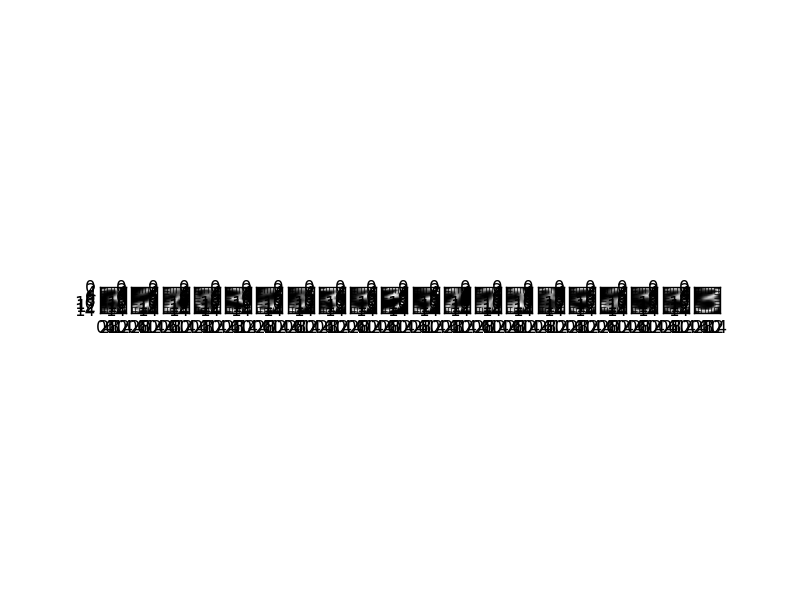
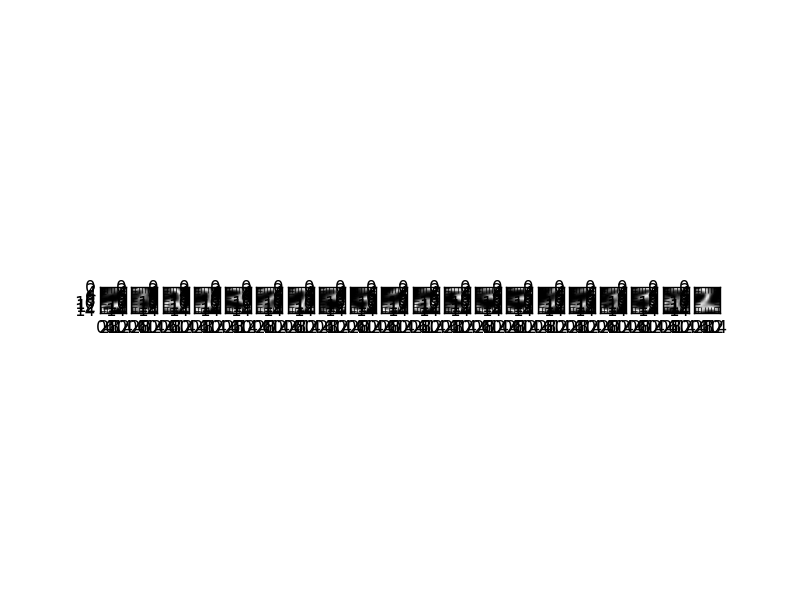
Fix 3.3

Changed region(s): [[0.3125, 0.48, 0.9062, 0.54], [0.125, 0.48, 0.2812, 0.54]]

diff --git a/MoG/python/mogEM.py b/MoG/python/mogEM.py
@@ -134,9 +134,11 @@ def q3():
   inputs_train, inputs_valid, inputs_test, target_train, target_valid, target_test = LoadData('digits.npz')
   # Train a MoG model with 20 components on all 600 training
   # vectors, with both original initialization and kmeans initialization.
+  p, mu, var, logProbX = mogEM(inputs_train, nCluster, iters, minVary, use_kmeans=False)
+  print "LogProbX without kmeans is: ", logProbX
+ 
   p, mu, var, logProbX = mogEM(inputs_train, nCluster, iters, minVary, use_kmeans=True)
-  print "LogProbX is: ", logProbX[-1]
-  ShowMeans(mu, title="MoG_with_kmeans_initialization")
+  print "LogProbX with kmeans is: ", logProbX
   #------------------- Add your code here ---------------------
 
   raw_input('Press Enter to continue.')
@@ -272,7 +274,7 @@ def q5():
   raw_input('Press Enter to continue.')
 
 if __name__ == '__main__':
-  #q2() 
-  #q3()
+  q2() 
+  q3()
   #q4()
-  q5()
+  #q5()

diff --git a/MoG/python/nn.py b/MoG/python/nn.py
@@ -2,6 +2,7 @@ from util import *
 import sys
 import matplotlib.pyplot as plt
 import time
+from kmeans import ShowMeans as show_img
 plt.ion()
 
 class DimensionMismatchError(Exception):
@@ -48,7 +49,12 @@ def TrainNN(num_hiddens, eps, momentum, num_epochs, run_test=False):
   num_train_cases = inputs_train.shape[1]
   for epoch in xrange(num_epochs):
     # Forward prop
+    print "Shape of inputs_train is: ", inputs_train.shape
+    print "Shape of W1 is: ", W1.shape
     h_input = np.dot(W1.T, inputs_train) + b1  # Input to hidden layer.
+    if epoch % 100 == 0:
+        print "Shape of h_input is: ", h_input.shape
+        show_img(h_input, "NN_epoch_at_" + str(epoch))
     h_output = 1 / (1 + np.exp(-h_input))  # Output of hidden layer.
     logit = np.dot(W2.T, h_output) + b2  # Input to output layer.
     prediction = 1 / (1 + np.exp(-logit))  # Output prediction.
